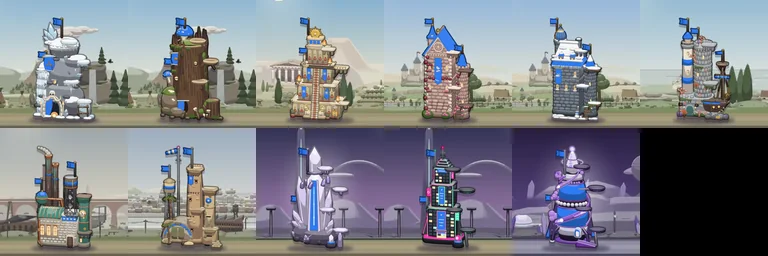
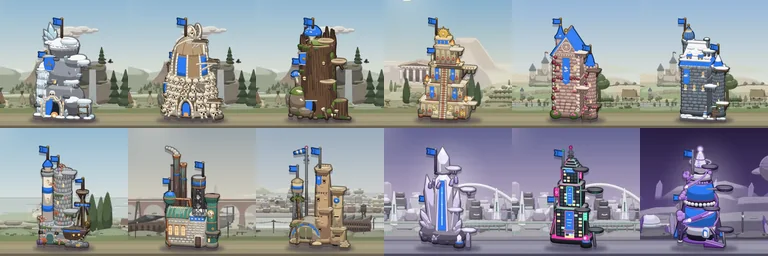
WIP: snapshot (Customize round 3 in progress)
Claude-Session: https://claude.ai/code/session_01NfGD2JrsQPPo6oeDJ8LLwf

diff --git a/src/content/raw/baseSkins.ts b/src/content/raw/baseSkins.ts
@@ -25,4 +25,6 @@ export const baseSkinItems: CosmeticItemDef[] = [
   { id: 'desert_bunker', collection: 'baseSkin', rarity: 'rare', source: { kind: 'crate' }, art: 'cosmetic.baseSkin.desert_bunker', nameKey: 'cosmetic.baseSkin.desert_bunker.name', age: 'modern' },
   { id: 'midnight_neon', collection: 'baseSkin', rarity: 'epic', source: { kind: 'crate' }, art: 'cosmetic.baseSkin.midnight_neon', nameKey: 'cosmetic.baseSkin.midnight_neon.name', age: 'future' },
   { id: 'nebula_ark', collection: 'baseSkin', rarity: 'legendary', source: { kind: 'crate' }, art: 'cosmetic.baseSkin.nebula_ark', nameKey: 'cosmetic.baseSkin.nebula_ark.name', age: 'cosmic' },
+  // round 3 (PLAN 2c, 2e): the 13 new models, each `released: false` until its model passes review
+  { id: 'mammoth_bone_lodge', collection: 'baseSkin', rarity: 'epic', source: { kind: 'crate' }, art: 'cosmetic.baseSkin.mammoth_bone_lodge', nameKey: 'cosmetic.baseSkin.mammoth_bone_lodge.name', age: 'stone', released: false },
 ];

diff --git a/src/visuals/manifest.world.ts b/src/visuals/manifest.world.ts
@@ -76,6 +76,8 @@ export const WORLD_BASE_SKINS: Readonly<Record<string, AgeId>> = {
   midnight_neon: 'future',
   crystal_spire: 'future',
   nebula_ark: 'cosmic',
+  // round 3 (2026-10-25): the new models, wave 1
+  mammoth_bone_lodge: 'stone',
 };
 
 /** Skin models with their own collapse kit (`art/bases/skins/<skin>.collapse.json`); the others use their age's. */
@@ -91,6 +93,7 @@ export const WORLD_BASE_SKIN_KITS: readonly string[] = [
   'midnight_neon',
   'crystal_spire',
   'nebula_ark',
+  'mammoth_bone_lodge',
 ];
 
 /**
@@ -114,6 +117,8 @@ export const WORLD_BASE_SKIN_PROPS: Readonly<Record<string, readonly { clip: str
     { clip: 'nebulaA', loopMs: 1560 },
     { clip: 'nebulaB', loopMs: 1560 },
   ],
+  // round 3: the new models' moving parts
+  mammoth_bone_lodge: [{ clip: 'chimes', loopMs: 1020 }],
 };
 
 export function baseSkinSheetSource(skin: string): string {

diff --git a/art/blender/world/scenes/stone.py b/art/blender/world/scenes/stone.py
@@ -454,8 +454,7 @@ def gv_far(st, P):
     # a rock island (nunatak) in the basin and the medial moraine it trails down the ice to the snout
     gm, gm2 = pt.g(GV["rock_dk"], outline=0.3), pt.g(GV["rock"], outline=0.3)
     nt = kit.loft_point(rows, 7.7, 0.05)
-    rock(gm, (nt[0], nt[1], nt[2] + 2), (12, 8, 13), seed=77, jag=0.3, p=2.0)
-    kit.snow_cap(gsn, (nt[0], nt[1], nt[2] + 2), (12, 8, 13), seed=77, jag=0.3, p=2.0, cut=nt[2] + 11)
+    kit.peak(gm, gsn, nt[0], nt[1] + 2, nt[2] - 6, 15, 30, seed=77, snow=0.62, jag=0.24, squash=0.6)
     mpts = [kit.loft_point(rows, 7.5 - k * 7.35 / 30, 0.05) for k in range(31)]
     for k, (a, b) in enumerate(zip(mpts, mpts[1:])):
         gm2.capsule((a[0], a[1] - 0.8, a[2] + 0.9), (b[0], b[1] - 0.8, b[2] + 0.9), 1.6 + 2.6 * k / 30, 1.65 + 2.6 * k / 30)
@@ -509,25 +508,26 @@ def gv_far(st, P):
     for t, u in ((0.9, -0.42), (2.4, 0.36), (4.6, -0.24), (1.6, 0.62)):
         p_ = kit.loft_point(rows, t, u)
         st.amb("blink", "fx.p.star", (p_[0], p_[1], p_[2] + 4), period=2900, tint=0xF6FAFF, scale=0.6)
-    # 4. the valley's rock walls either side of the ice: a long dark rock ridge along each edge (a loft that
-    # follows the glacier's bend), its crest broken by crags with snow on their tops, rising toward the
-    # basin; and the outer shoulders (the glacier runs between them like a river of ice)
+    # 4. the valley's rock walls either side of the ice: a long rock ridge along each edge (a loft that
+    # follows the glacier's bend and climbs into its horn), a few dark crags on its crest, snow-filled
+    # gullies down its inner face; and the outer shoulders (the glacier runs between them like a river of ice)
     gr2, gs2 = pt.g(GV["rock"], outline=0.4), pt.g(GV["snow"], outline=0.4)
     grd = pt.g(GV["rock_dk"], outline=0.4)
     for side in (-1, 1):
         wrows = [(cx + side * (hw + 30), y + 4, z + 2 + 10 * (k / nr), 28, 20 + 14 * (k / nr)) for k, (cx, y, z, hw, bu) in enumerate(rows)]
         hx_, hy_ = (228, 724) if side < 0 else (598, 740)
         wrows.append((hx_ - side * 6, hy_ + 10, 262, 22, 12))   # the ridge climbs into its horn
-        kit.loft(grd, wrows, nu=10, thick=40)
-        for k in range(8):
-            t = 0.3 + k * 1.1 + rnd.uniform(-0.2, 0.2)
-            p_ = kit.loft_point(wrows, t, rnd.uniform(-0.3, 0.2))
-            rx, rz = rnd.uniform(14, 20) + k * 0.6, rnd.uniform(8, 12) + k * 0.5
-            c = (p_[0], p_[1] + 2, p_[2] - rz * 0.5)
-            sd = 700 + k + (side > 0) * 20
-            rock(gr2 if k % 2 else grd, c, (rx, 14, rz), seed=sd, jag=0.3, p=2.0)
-            if k % 2 == 1:
-                kit.snow_cap(gs2, c, (rx, 14, rz), seed=sd, jag=0.3, p=2.0, cut=c[2] + rz * 0.45)
+        kit.loft(gr2, wrows, nu=10, thick=40)
+        for k, t in enumerate((1.3 + (side > 0) * 0.9, 4.1 + (side > 0) * 0.5, 6.9 - (side > 0) * 0.6)):
+            p_ = kit.loft_point(wrows, t, 0.1 * side)
+            rx, h = 16 + k * 3, 30 + k * 7
+            kit.peak(grd, gs2, p_[0], p_[1] + 4, p_[2] - h * 0.5, rx, h, seed=700 + k + (side > 0) * 20, snow=0.7, jag=0.24, squash=0.6)
+        gsg = pt.g(mixc(GV["snow"], GV["rock"], 0.12), outline=0.0, highlight=False)
+        for k in range(7):
+            t = 0.6 + k * 1.15 + rnd.uniform(-0.2, 0.2)
+            pts = [kit.loft_point(wrows, t - q * 0.09, -side * (0.05 + q * 0.16)) for q in range(6)]
+            for q, (a, b) in enumerate(zip(pts, pts[1:])):
+                gsg.capsule((a[0], a[1] - 1, a[2] + 0.6), (b[0], b[1] - 1, b[2] + 0.6), 2.2 - q * 0.25, 2.0 - q * 0.25)
     kit.peak(gr2, gs2, 214, 360, 40, 120, 190, seed=11, snow=0.62, jag=0.2, squash=0.5)
     kit.peak(gr2, gs2, 612, 366, 40, 118, 176, seed=12, snow=0.6, jag=0.2, squash=0.5)
     kit.peak(gr2, gs2, 1200, 420, 40, 210, 250, seed=13, snow=0.58, jag=0.2, squash=0.55)

diff --git a/art/blender/world/base_skins_stone.py b/art/blender/world/base_skins_stone.py
@@ -1138,17 +1138,19 @@ def skull_geo(geos, c, a_deg, k=1.0, tusks="stub", paint=False):
     domed cranium, the brow, deep eye sockets and nasal hole, the tusk sockets and tusks (stubs, or long tusks
     curling up and out)."""
     bone, dk, hole, tusk, ochre = Geo(), Geo(), Geo(), Geo(), Geo()
-    bone.blob((-3.0 * k, 0.0, 4.0 * k), (13.0 * k, 15.0 * k, 16.0 * k), p=2.3, taper=(1.0, 0.86))
-    bone.blob((6.0 * k, 0.0, -6.0 * k), (9.0 * k, 12.0 * k, 9.0 * k), p=2.4)
-    dk.capsule((10.0 * k, -10.0 * k, 4.0 * k), (10.0 * k, 10.0 * k, 4.0 * k), 3.4 * k, segs=10, rings=2)
+    # a mammoth's skull, not a man's: a tall domed crown, one big nasal opening high in the forehead, small eye
+    # sockets far out at the sides, and two heavy tusk sheaths reaching down and forward
+    bone.blob((-3.0 * k, 0.0, 5.0 * k), (13.0 * k, 15.0 * k, 17.0 * k), p=2.3, taper=(1.0, 0.82))
+    bone.blob((5.0 * k, 0.0, -5.0 * k), (9.0 * k, 12.5 * k, 9.0 * k), p=2.4)
+    dk.capsule((9.5 * k, -11.0 * k, 9.0 * k), (9.5 * k, 11.0 * k, 9.0 * k), 2.6 * k, segs=10, rings=2)
+    hole.blob((12.2 * k, 0.0, 3.0 * k), (1.8 * k, 4.6 * k, 5.6 * k), p=2.0)
     for sgn in (-1, 1):
-        hole.blob((11.6 * k, sgn * 7.0 * k, 0.5 * k), (2.8 * k, 3.2 * k, 3.0 * k), p=2.0)
-        dk.lathe([(0.1, 0), (4.4 * k, 1.0 * k), (4.0 * k, 6.0 * k), (3.2 * k, 7.0 * k)], (10.0 * k, sgn * 6.0 * k, -9.0 * k),
-                 (15.0 * k, sgn * 7.0 * k, -14.0 * k), segs=12)
-    hole.blob((14.2 * k, 0.0, -5.0 * k), (1.8 * k, 3.4 * k, 4.6 * k), p=2.0)
+        hole.blob((7.0 * k, sgn * 12.4 * k, -1.0 * k), (2.0 * k, 1.6 * k, 2.2 * k), p=2.0)
+        dk.lathe([(0.1, 0), (5.0 * k, 1.0 * k), (4.6 * k, 7.0 * k), (3.8 * k, 8.0 * k)], (9.0 * k, sgn * 5.5 * k, -8.0 * k),
+                 (14.0 * k, sgn * 7.0 * k, -16.0 * k), segs=12)
     if tusks == "stub":
         for sgn in (-1, 1):
-            tusk.capsule((14.0 * k, sgn * 7.0 * k, -13.0 * k), (19.0 * k, sgn * 8.5 * k, -17.0 * k), 2.9 * k, 2.3 * k, segs=10, rings=2)
+            tusk.capsule((13.6 * k, sgn * 7.0 * k, -15.0 * k), (18.0 * k, sgn * 8.6 * k, -20.0 * k), 3.2 * k, 2.6 * k, segs=10, rings=2)
     elif tusks == "long":
         for sgn in (-1, 1):
             pts = []
@@ -1332,7 +1334,7 @@ def build_bone_lodge(rig, M):
 
     # the lower wall: courses of great mammoth skulls stacked in a staggered bond, packed with earth (three
     # beside the door fall out at 75%)
-    courses = [(18.0, 1.0, 26.0, 0.0), (46.0, 0.86, 22.0, 11.0), (72.0, 0.8, 20.0, 0.0), (97.0, 0.74, 19.0, 9.5), (120.0, 0.68, 18.0, 0.0)]
+    courses = [(20.0, 1.05, 30.0, 0.0), (52.0, 0.95, 27.0, 13.5), (82.0, 0.88, 25.0, 0.0), (110.0, 0.8, 23.0, 11.5)]
     wall, loose = {}, {}
     n = 0
     for ci, (z, k, step, off) in enumerate(courses):
@@ -1340,8 +1342,8 @@ def build_bone_lodge(rig, M):
         while a <= 0.5:
             near_door = abs(a - BL_DOOR) < 21 and z < 66
             if not near_door:
-                into = loose if (-136 <= a <= -112 and 40 <= z <= 100) else wall
-                skull_geo(into, bl_at(a, z, 6.0 * k), a, k=k, tusks="stub" if (ci == 0 and a > -150) else "none", paint=(n % 4 == 1))
+                into = loose if (-140 <= a <= -110 and 40 <= z <= 100) else wall
+                skull_geo(into, bl_at(a, z, 6.0 * k), a, k=k, tusks="stub" if a > -150 else "none", paint=(n % 4 == 1))
                 n += 1
             a += step
         # the back of the course, sparser (only its silhouette shows)
